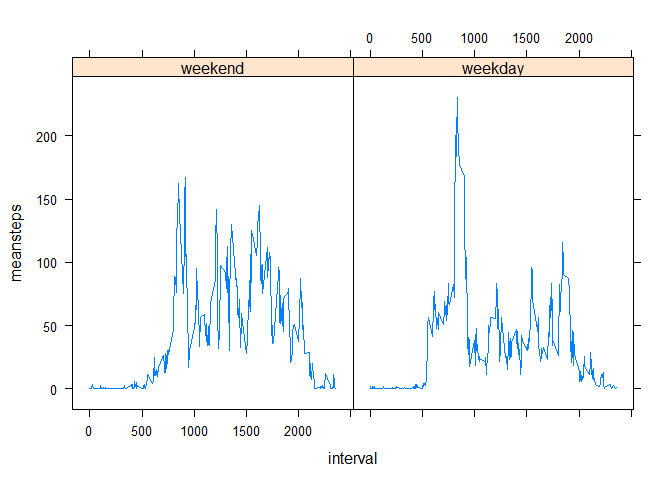
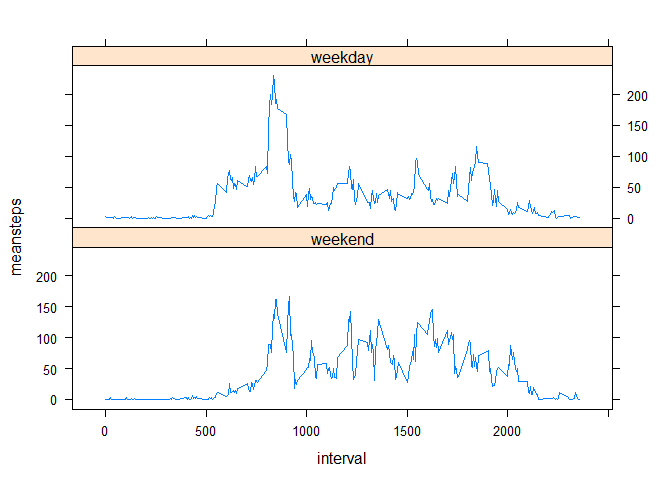
Peer Assessment 1

diff --git a/PA1_template.html b/PA1_template.html
@@ -211,8 +211,8 @@ colnames(DayData) &lt;- c(&quot;interval&quot;, &quot;Day&quot;, &quot;meansteps
 
 ###creating the timesharing plot
 library(lattice)
-xyplot(meansteps ~ interval | Day, data = DayData, type = &quot;l&quot;, as.table=TRUE)</code></pre>
[1 lines of base64/hex data omitted]
+xyplot(meansteps ~ interval | Day, data = DayData, type = &quot;l&quot;, layout=c(1,2))</code></pre>
[1 lines of base64/hex data omitted]
 
 
 

diff --git a/PA1_template.md b/PA1_template.md
@@ -171,7 +171,7 @@ colnames(DayData) <- c("interval", "Day", "meansteps")
 
 ###creating the timesharing plot
 library(lattice)
-xyplot(meansteps ~ interval | Day, data = DayData, type = "l", as.table=TRUE)
+xyplot(meansteps ~ interval | Day, data = DayData, type = "l", layout=c(1,2))
 ```
 
 ![](PA1_template_files/figure-html/Comparing Weekday and Weekend activity-1.png)
